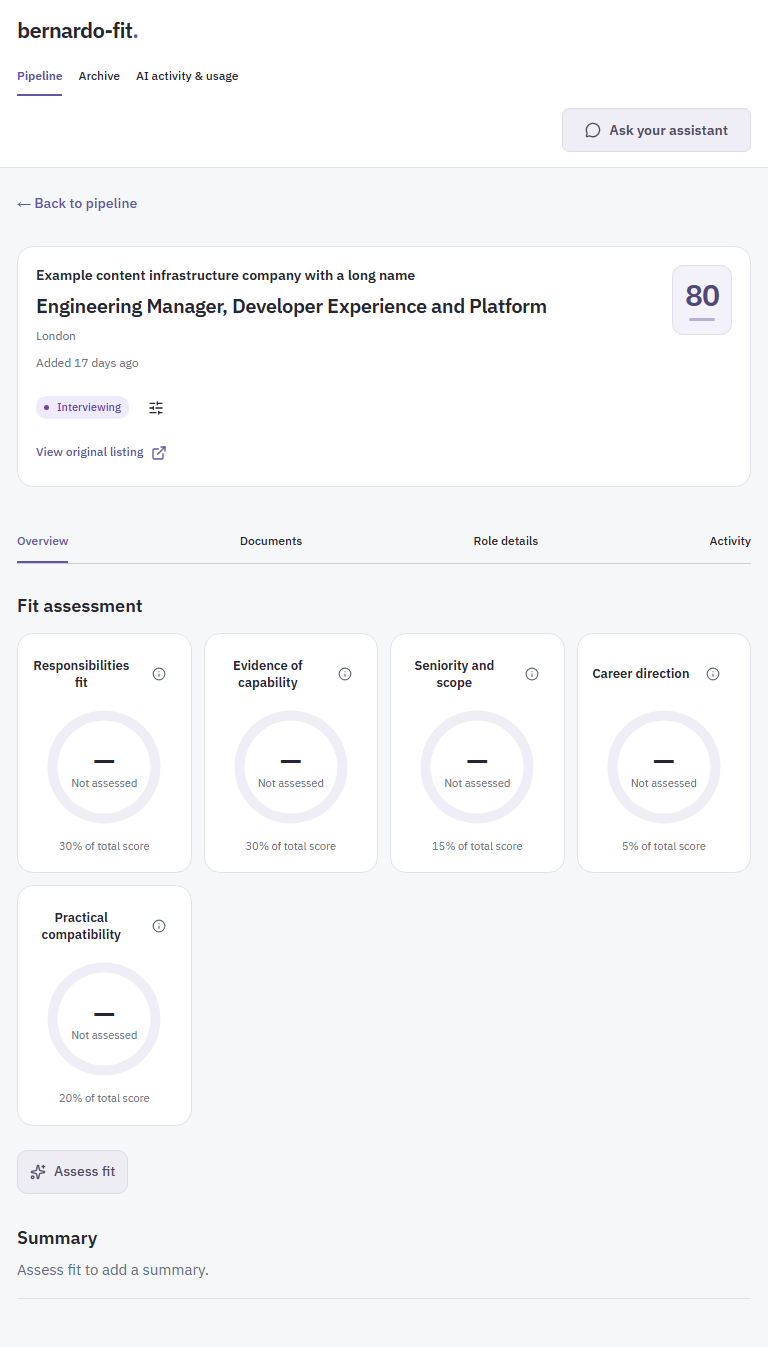
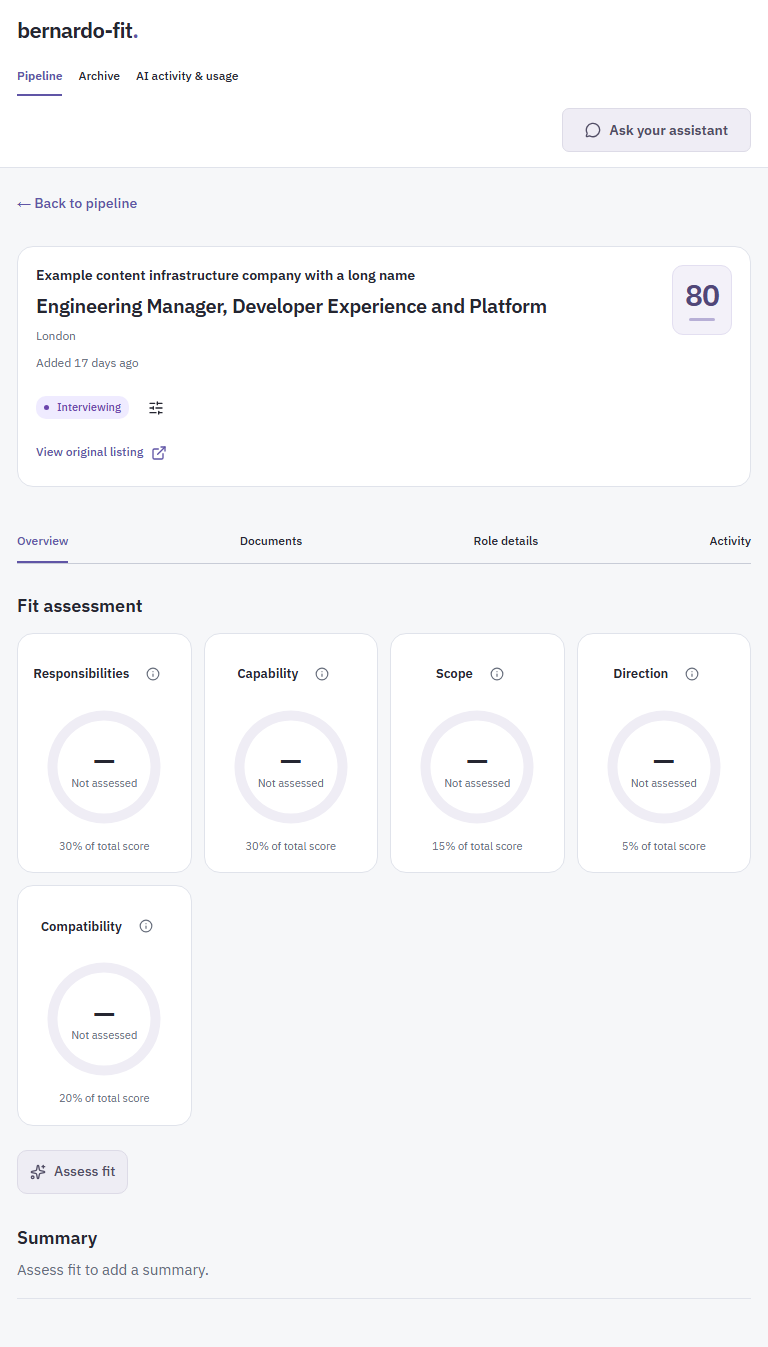
Use one-word fit dimension labels

diff --git a/src/admin/components/score-gauge.jsx b/src/admin/components/score-gauge.jsx
@@ -13,6 +13,10 @@ const dimensionHelp = {
   direction: 'Does this support your move towards your own businesses? Values useful learning and room for outside projects, rather than promotion prospects.',
   practical: 'Does this fit your life? Considers pay, remote working, travel and employment arrangements that fit your life.',
 };
+const dimensionLabels = {
+  responsibilities: 'Responsibilities', evidence: 'Capability', scope: 'Scope',
+  direction: 'Direction', practical: 'Compatibility',
+};
 
 // shadcn radial-chart composition with the dashboard's Card/ChartContainer pattern.
 const config = { score: { label: 'Rating', color: 'var(--primary)' } };
@@ -46,12 +50,14 @@ function DimensionHelp({ label, children }) {
 }
 export function ScoreGauge({ dimension, label, value, weight }) {
   const legacyIds = { 'Responsibilities fit': 'responsibilities', 'Evidence of capability': 'evidence', 'Seniority and scope': 'scope', 'Career direction': 'direction', 'Practical compatibility': 'practical' };
-  const help = dimensionHelp[dimension || legacyIds[label]];
+  const id = dimension || legacyIds[label];
+  const help = dimensionHelp[id];
+  const displayLabel = dimensionLabels[id] || label;
   const parsed = value === '' || value == null ? NaN : Number(value);
   const score = Number.isFinite(parsed) ? Math.max(0, Math.min(100, parsed)) : null;
   return <Card className="score-gauge">
-    <h3 className="dimension-heading"><span>{label}</span>{help ? <DimensionHelp label={label}>{help}</DimensionHelp> : null}</h3>
-    <div className="gauge-visual" role={score === null ? 'img' : 'meter'} aria-label={label + (score === null ? ': not assessed' : '')}
+    <h3 className="dimension-heading"><span>{displayLabel}</span>{help ? <DimensionHelp label={displayLabel}>{help}</DimensionHelp> : null}</h3>
+    <div className="gauge-visual" role={score === null ? 'img' : 'meter'} aria-label={displayLabel + (score === null ? ': not assessed' : '')}
       aria-valuemin={score === null ? undefined : 0} aria-valuemax={score === null ? undefined : 100}
       aria-valuenow={score ?? undefined} aria-valuetext={score === null ? undefined : `${score} out of 100`}>
       <div aria-hidden="true">

diff --git a/DESIGN.md b/DESIGN.md
@@ -265,7 +265,7 @@ The shared radius is 0.75rem. At the default 16px root size, the existing Tailwi
 
 - Keep company, role, location/work pattern, available salary and status in the header. Preserve title/company editing. Put the real saved posting text link at the bottom of the header; do not invent missing values.
 - Use the four visible tabs: **Overview, Documents, Role details, Activity**. Keep labels consistent across widths and preserve keyboard tab navigation.
-- **Overview:** show the assessment date, five fit dimensions (Responsibilities fit 30%, Evidence of capability 30%, Seniority and scope 15%, Career direction 5%, Practical compatibility 20%), model confidence and an Assess fit button. Highlight confidence below 70%, or unavailable confidence, beside its dimension with the warning colours and a visible Review rating cue. Confidence never reduces a fit score or implies that a specific fact is missing. Remove the separate information-sufficiency checks and generic dimension-gap warnings. Provisional status is reserved for incomplete, inaccessible, unrelated or uncertain postings: show the posting reason together in Fit assessment and a compact warning icon beside scores in the pipeline and role header with an accessible label. Omit provider names, tiers, unrelated posting-quality prose, repeated uncertainty explanations and historical score comparisons. Keep a brief outdated state and suppress confidence cues on outdated assessments. Follow with Summary: a short description of the position and a written interpretation of the saved scores. No Ready to use section, document shortcuts or analytics; document actions belong in Documents. Unassessed dimensions stay unassessed. Give each dimension a compact info icon beside its separate label, opening a shadcn Tooltip explanation on hover, keyboard focus or tap. Only the info icon triggers help. Keep the icon button a minimum 44px touch target, with Escape and outside dismissal; opening help must not move keyboard focus. Explain sustainable management duties, demonstrated capability, manageable accountability, support for future own businesses rather than promotions, and practical life fit respectively. Existing saved assessments retain their recorded weights until reassessment.
+- **Overview:** show the assessment date, five fit dimensions (Responsibilities 30%, Capability 30%, Scope 15%, Direction 5%, Compatibility 20%), model confidence and an Assess fit button. Highlight confidence below 70%, or unavailable confidence, beside its dimension with the warning colours and a visible Review rating cue. Confidence never reduces a fit score or implies that a specific fact is missing. Remove the separate information-sufficiency checks and generic dimension-gap warnings. Provisional status is reserved for incomplete, inaccessible, unrelated or uncertain postings: show the posting reason together in Fit assessment and a compact warning icon beside scores in the pipeline and role header with an accessible label. Omit provider names, tiers, unrelated posting-quality prose, repeated uncertainty explanations and historical score comparisons. Keep a brief outdated state and suppress confidence cues on outdated assessments. Follow with Summary: a short description of the position and a written interpretation of the saved scores. No Ready to use section, document shortcuts or analytics; document actions belong in Documents. Unassessed dimensions stay unassessed. Use one-word dimension labels in the UI; retain the full explanations in tooltips. Give each dimension a compact info icon beside its separate label, opening a shadcn Tooltip explanation on hover, keyboard focus or tap. Only the info icon triggers help. Keep the icon button a minimum 44px touch target, with Escape and outside dismissal; opening help must not move keyboard focus. Explain sustainable management duties, demonstrated capability, manageable accountability, support for future own businesses rather than promotions, and practical life fit respectively. Existing saved assessments retain their recorded weights until reassessment.
 - **Documents:** show document cards with live version, model and creation time. Place Open and generate actions beside their document, with the action row order and styles defined above. Expand saved versions inline using Collapsible, with separate authenticated Preview and Publish live actions. Expanded history survives publication refresh. Keep application questions and their editing, word limit/count, answer, copy, generation and deletion controls available here.
 - **Role details:** use a readable main column, labelled description/context editors and distinct headings for private notes and AI instructions. Explain their actual input use; private notes may feed interview preparation. Keep primary editors discoverable rather than hiding them in a general-purpose accordion.
 - **Activity:** show analytics first, then the newest-first audit log, then inline AI activity and usage for this job. Global usage remains aggregate. Analytics uses three columns even on mobile. Audit rows are one line, with exact local date/time first and action name second; long names may truncate visually while remaining fully accessible. Keep supporting detail in the row title, paginate older events and provide Refresh activity.
